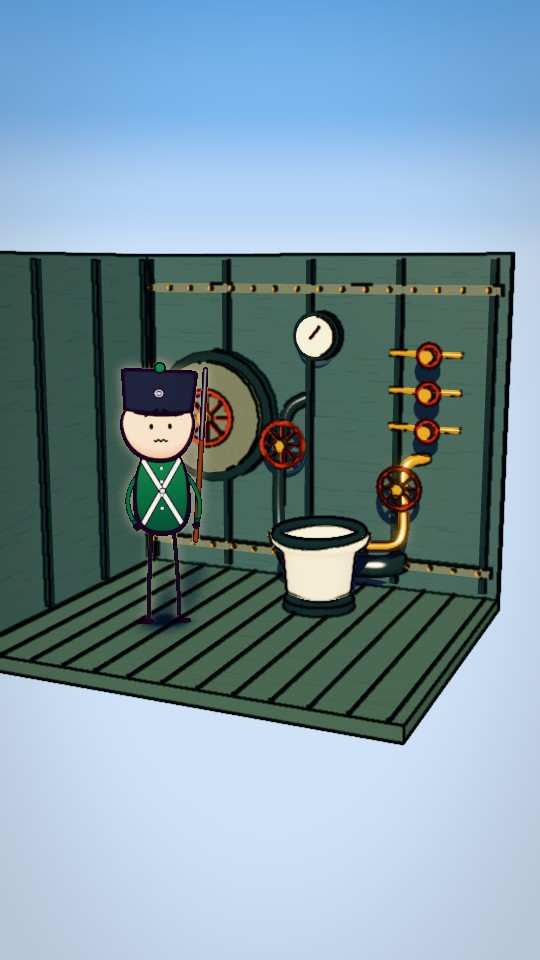
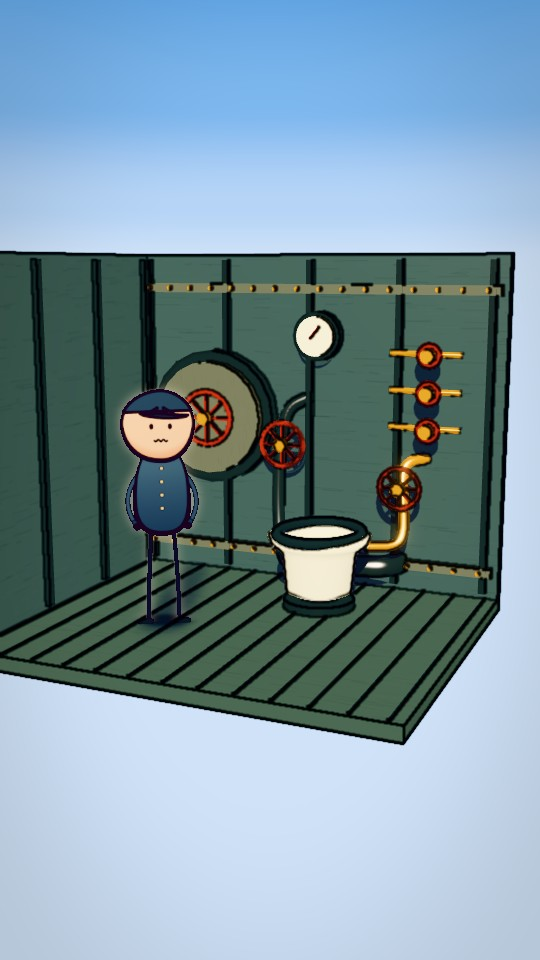
Add submarine support sets and review scenes

Changed region(s): [[0.2074, 0.375, 0.3852, 0.5625]]

diff --git a/src/videos/submarine-toilet/Preview.tsx b/src/videos/submarine-toilet/Preview.tsx
@@ -12,18 +12,20 @@ import {SkyRig} from '../../pipeline/sky';
 import {finish} from './materials';
 import {Ground} from '../../pipeline/ground';
 import {CardStage, person, blob, Stage, CamInfo} from '../../pipeline/cast';
-import {soldier} from '../../pipeline/toon';
+import {CREW,CAPTAIN} from './cast';
+import {initWaterTextures,waterMat,setWaterLook,WATER_DAY} from '../../pipeline/water';
+import {createControlRoom,createBatteryRoom,createFloodEffects,createFish,createBubbles,createOceanCrests} from '../../../videos/submarine-toilet/assets/support.js';
 import {createCompartment,createSubmarine,createToilet,createSection} from '../../../videos/submarine-toilet/assets/submarine.js';
-const shots=[{pos:[48,36,66],look:[0,3,0],fov:48},{pos:[2.1,2.0,4.4],look:[0,.8,-.2],fov:48},{pos:[6.5,5.0,10.0],look:[0,2,-.2],fov:48},{pos:[3.2,2.6,7.0],look:[0,1,-.4],fov:48}] as const;
+const shots=[{pos:[48,36,66],look:[0,3,0],fov:48},{pos:[2.1,2.0,4.4],look:[0,.8,-.2],fov:48},{pos:[6.5,5.0,10.0],look:[0,2,-.2],fov:48},{pos:[3.2,2.6,7.0],look:[0,1,-.4],fov:48},{pos:[80,48,105],look:[0,3,0],fov:48},{pos:[45,18,65],look:[0,3,0],fov:48},{pos:[3.4,2.6,7.0],look:[0,1,-.4],fov:48},{pos:[3.2,2.6,7.0],look:[0,1,-.4],fov:48},{pos:[3.7,3.3,7.5],look:[0,.9,-.3],fov:48}] as const;
 function Inner(){const f=useCurrentFrame();const {camera,scene}=useThree();const cam=camera as THREE.PerspectiveCamera;
- const world=useMemo(()=>{const root=new THREE.Group(),sky=new SkyRig(root,{clouds:0});const ship=finish(createSubmarine()),room=finish(createCompartment()),toilet=finish(createToilet()),section=finish(createSection());root.add(ship,room,toilet,section);const ground=new Ground();const floor=room.getObjectByName('floor');if(floor)ground.add(floor);const cards=new CardStage(root,ground);return {root,sky,ship,room,toilet,section,cards}},[]);
+ const world=useMemo(()=>{const root=new THREE.Group(),sky=new SkyRig(root,{clouds:0});const ship=finish(createSubmarine()),room=finish(createCompartment()),toilet=finish(createToilet()),section=finish(createSection());const control=finish(createControlRoom()),battery=finish(createBatteryRoom()),flood=finish(createFloodEffects()),fish=finish(createFish()),bubbles=finish(createBubbles()),crests=finish(createOceanCrests());fish.position.set(-5,8,5);fish.scale.setScalar(3);bubbles.position.set(5,7,3);bubbles.scale.setScalar(2);initWaterTextures();const sea=new THREE.Mesh(new THREE.PlaneGeometry(1800,1800,48,48).rotateX(-Math.PI/2),waterMat(0));sea.position.y=3.3;sea.receiveShadow=true;const backdrop=new THREE.Mesh(new THREE.SphereGeometry(400,24,12),new THREE.MeshBasicMaterial({color:'#276f82',side:THREE.BackSide,depthWrite:false,fog:false}));backdrop.layers.set(NOINK);root.add(ship,room,toilet,section,control,battery,flood,fish,bubbles,sea,backdrop,crests);const ground=new Ground();const floor=room.getObjectByName('floor');if(floor)ground.add(floor);const cf=control.getObjectByName('floor');if(cf)ground.add(cf);const cards=new CardStage(root,ground);return {root,sky,ship,room,toilet,section,control,battery,flood,fish,bubbles,sea,backdrop,crests,cards}},[]);
  const fx=useMemo(()=>({ink:new InkPass(scene,cam),lens:new LensBlur({maxCoC:24,nearScale:1.2}),bloom:new BloomEffect({blendFunction:BlendFunction.ADD,intensity:.5,luminanceThreshold:1,luminanceSmoothing:.2,mipmapBlur:true,levels:6,radius:.6}),tone:new ToneMappingEffect({mode:ToneMappingMode.NEUTRAL}),grade:new GradeEffect(GRADES.day,GRADE_STRENGTH.day)}),[scene,cam]);
- const i=Math.min(3,Math.floor(f/100)),s=shots[i];cam.position.set(s.pos[0],s.pos[1],s.pos[2]);cam.lookAt(s.look[0],s.look[1],s.look[2]);if(i===0) cam.rotateZ(-0.85);cam.fov=s.fov;cam.updateProjectionMatrix();cam.updateMatrixWorld();cam.layers.enable(NOINK);
+ const i=Math.min(8,Math.floor(f/100)),s=shots[i];cam.position.set(s.pos[0],s.pos[1],s.pos[2]);cam.lookAt(s.look[0],s.look[1],s.look[2]);if(i===0||i===5) cam.rotateZ(-0.85);cam.fov=s.fov;cam.updateProjectionMatrix();cam.updateMatrixWorld();cam.layers.enable(NOINK);
  const focus=new THREE.Vector3(...s.look),sun=i===0?SkyRig.sunFrom(focus.x-cam.position.x,focus.z-cam.position.z,62,44):new THREE.Vector3(1,2,3).normalize();world.sky.update(cam,scene,'day',sun,focus,{fogNear:200,fogFar:1000,shadowR:i===0?60:8});
- world.ship.visible=i===0;world.room.visible=i===3;world.section.visible=i===2;world.toilet.visible=i===1;world.root.updateMatrixWorld(true);
+ world.ship.visible=i===0||i===4||i===5;world.room.visible=i===3||i===7;world.section.visible=i===2;world.toilet.visible=i===1;world.control.visible=i===6;world.battery.visible=i===8;world.flood.visible=i===7;world.sea.visible=i===4;world.crests.visible=i===4;world.backdrop.visible=i===5;world.backdrop.position.copy(cam.position);world.fish.visible=i===5;world.bubbles.visible=i===5;setWaterLook(WATER_DAY,f/30);world.root.updateMatrixWorld(true);
  const right=new THREE.Vector3().setFromMatrixColumn(cam.matrixWorld,0),ci:CamInfo={pos:cam.position,right,sun,light:'day'},st:Stage={places:[],fx:[]};
- if(i===3){st.places.push(person(ci,1,soldier(0),'crew',-.55,0,.3,{mode:'stand',expr:'worried'},1,{name:'crew',glow:'subtle'}));blob(ci,st,-.55,.3)}
+ if(i===3||i===6||i===7){st.places.push(person(ci,1,i===6?CAPTAIN:CREW,'crew',-.55,0,.3,{mode:'stand',expr:'worried'},1,{name:'crew',glow:'subtle'}));blob(ci,st,-.55,.3)}
  world.cards.render(st,cam,right,'day',false);noInkFallback(world.root);fx.lens.focus=cam.position.distanceTo(focus);fx.lens.cInf=0;
  return <><primitive object={world.root} dispose={null}/><EffectComposer multisampling={4}><primitive object={fx.ink} dispose={null}/><primitive object={fx.lens.pre} dispose={null}/><primitive object={fx.lens.main} dispose={null}/><primitive object={fx.bloom} dispose={null}/><primitive object={fx.tone} dispose={null}/><primitive object={fx.grade} dispose={null}/></EffectComposer></>}
 const Preview=()=> <AbsoluteFill><ThreeCanvas width={1080} height={1920} dpr={(getInputProps() as {dpr?:number}).dpr??.5} shadows gl={{antialias:false,stencil:false,toneMappingExposure:1}} camera={{fov:40,near:.15,far:1500}}><Inner/></ThreeCanvas></AbsoluteFill>;
-export const Root=()=> <Composition id="SubmarineAssetReview" component={Preview} durationInFrames={400} fps={30} width={1080} height={1920}/>;
+export const Root=()=> <Composition id="SubmarineAssetReview" component={Preview} durationInFrames={900} fps={30} width={1080} height={1920}/>;

diff --git a/videos/submarine-toilet/assets/support.js b/videos/submarine-toilet/assets/support.js
@@ -1,0 +1,33 @@
+// Original stylised support assets, Y up, metres. All are independent Three.js groups.
+import * as T from 'three';
+const mat=(name,color)=>Object.assign(new T.MeshStandardMaterial({color,roughness:.8}),{name});
+const M={wall:mat('iron','#779089'),edge:mat('iron','#344b4c'),floor:mat('iron','#617972'),cream:mat('enamel','#e5dabc'),brass:mat('gold','#c29755'),red:mat('paint','#b64b39'),black:mat('dark','#28393c'),water:mat('water','#4bb3c0'),fish:mat('paint','#e8a04f')};
+function mesh(g,m,p,x=0,y=0,z=0){const o=new T.Mesh(g,m);o.position.set(x,y,z);p.add(o);return o}
+function box(p,m,x,y,z,w,h,d){return mesh(new T.BoxGeometry(w,h,d),m,p,x,y,z)}
+function cyl(p,m,x,y,z,r,h,axis='y'){const o=mesh(new T.CylinderGeometry(r,r,h,20),m,p,x,y,z);if(axis==='z')o.rotation.x=Math.PI/2;if(axis==='x')o.rotation.z=Math.PI/2;return o}
+function pipe(p,m,pts,r=.04){return mesh(new T.TubeGeometry(new T.CatmullRomCurve3(pts.map(v=>new T.Vector3(...v))),48,r,8,false),m,p)}
+function wheel(p,x,y,z,r=.2){const g=new T.Group();g.name='handwheel';g.position.set(x,y,z);p.add(g);mesh(new T.TorusGeometry(r,.022,8,24),M.red,g);for(let a=0;a<4;a++){const s=box(g,M.red,0,0,0,r*1.8,.024,.025);s.rotation.z=a*Math.PI/4}cyl(g,M.brass,0,0,.035,.05,.08,'z');return g}
+function dial(p,x,y,z,r=.14){cyl(p,M.edge,x,y,z,r+.035,.07,'z');cyl(p,M.cream,x,y,z+.045,r,.025,'z');const n=box(p,M.black,x,y+.035,z+.063,.012,r*.9,.01);n.rotation.z=-.65;for(let a=0;a<7;a++){let t=box(p,M.black,x+Math.cos(a*Math.PI/6)*r*.72,y+Math.sin(a*Math.PI/6)*r*.72,z+.064,.025,.012,.01);t.rotation.z=a*Math.PI/6}}
+function room(w=3.6,d=2.8){const g=new T.Group();const f=box(g,M.floor,0,-.06,0,w,.12,d);f.name='floor';for(let x=-w/2+.1;x<w/2;x+=.28)box(g,M.edge,x,.005,0,.018,.012,d-.1);const b=new T.Group();b.name='removable-back-wall';g.add(b);box(b,M.wall,0,1.4,-d/2,w,2.8,.12);for(let x=-w/2+.1;x<w/2;x+=.7)box(b,M.edge,x,1.4,-d/2+.09,.045,2.7,.05);const side=new T.Group();side.name='removable-side-wall';g.add(side);box(side,M.wall,-w/2,1.4,0,.1,2.8,d);for(let z=-d/2+.2;z<d/2;z+=.65)box(side,M.edge,-w/2+.07,1.4,z,.04,2.7,.05);return {g,b,side}}
+export function createControlRoom(){const {g,b}=room();g.name='control-room';
+ box(b,M.edge,.55,.65,-1.05,1.75,1.15,.55);box(b,M.wall,.55,1.25,-1.04,1.65,.15,.6);
+ for(let i=0;i<5;i++)dial(b,-.12+i*.33,1.48,-1.31,.115);
+ for(let i=0;i<4;i++)wheel(b,-.05+i*.4,.89,-.74,.12);
+ cyl(g,M.edge,-.7,1.35,-.5,.16,2.7);cyl(g,M.brass,-.7,1.75,-.5,.21,.22);wheel(g,-.7,1.5,-.25,.23);
+ for(let i=0;i<3;i++){pipe(b,M.brass,[[1.5,.3+i*.22,-1.28],[1.5,1.8+i*.15,-1.28],[1.1,2+i*.15,-1.28]],.025)}
+ dial(b,-1.1,1.9,-1.31,.23);wheel(b,-1.1,1.2,-1.23,.25);
+ g.userData={units:'m',pivot:'floor centre',sets:['removable-back-wall','removable-side-wall']};return g}
+export function createBatteryRoom(){const {g,b}=room();g.name='battery-room';
+ for(let x of [-1.1,-.4,.3,1])for(let z of [-.75,0,.75]){const battery=box(g,M.black,x,.42,z,.58,.78,.58);battery.name='battery-cell';box(g,M.edge,x,.83,z,.61,.08,.61);for(let dx of [-.14,.14])cyl(g,M.brass,x+dx,.9,z,.045,.08)}
+ pipe(b,M.red,[[-1.4,2.15,-1.28],[0,2.15,-1.28],[1.4,2.15,-1.28]],.045);dial(b,.7,1.7,-1.31,.18);
+ g.userData={units:'m',pivot:'floor centre',effectAnchor:[0,1,0]};return g}
+export function createFloodEffects(){const g=new T.Group();g.name='flood-effects';
+ const water=box(g,M.water,0,.08,0,3,.12,2.5);water.name='water-level';
+ for(let i=0;i<5;i++){let ripple=mesh(new T.TorusGeometry(.17+i*.055,.018,8,36),M.cream,g,.25,.42,-.55);ripple.position.y=.15;ripple.rotation.x=Math.PI/2;ripple.scale.y=.7}
+ const jet=new T.Group();jet.name='water-jet';g.add(jet);pipe(jet,M.water,[[.35,.85,-.6],[.2,1.2,-.35],[-.1,1.0,0],[-.35,.46,.35]],.085);
+ for(let i=0;i<13;i++){let p=mesh(new T.SphereGeometry(.055+(i%3)*.012,10,8),i%3?M.water:M.cream,jet,-.4+(i%4)*.23,.55+(i%5)*.15,-.2+(i%3)*.18);p.scale.set(.7,1.4,.7)}
+ g.userData={units:'m',pivot:'floor centre',controls:'water-level.position.y changes level; water-jet is independently hideable'};return g}
+export function createFish(){const g=new T.Group();g.name='fish';let body=mesh(new T.SphereGeometry(.35,20,12),M.fish,g);body.scale.set(1.5,.75,.35);const tail=mesh(new T.ConeGeometry(.28,.42,3),M.fish,g,-.58,0,0);tail.rotation.z=-Math.PI/2;const eye=mesh(new T.SphereGeometry(.045,10,8),M.black,g,.24,.1,.13);g.userData={units:'m',forward:'+X'};return g}
+export function createBubbles(){const g=new T.Group();g.name='bubbles';for(let i=0;i<18;i++){const x=Math.sin(i*2.2)*.65,y=i*.22,z=Math.cos(i*1.6)*.4;const b=mesh(new T.TorusGeometry(.07+(i%4)*.022,.012,6,20),M.cream,g,x,y,z);b.name='bubble'}return g}
+
+export function createOceanCrests(){const g=new T.Group();g.name='ocean-crests';for(let i=0;i<55;i++){const x=Math.sin(i*31.7)*48,z=Math.cos(i*17.1)*48;const a=mesh(new T.TorusGeometry(1.1+(i%4)*.3,.055,6,24,Math.PI*.7),M.cream,g,x,3.36,z);a.rotation.x=-Math.PI/2;a.rotation.z=i*.7;a.scale.y=.35}return g}

diff --git a/src/videos/submarine-toilet/cast.ts b/src/videos/submarine-toilet/cast.ts
@@ -1,0 +1,4 @@
+import {Outfit} from '../../pipeline/toon';
+// Original recolours of the shared card rig. These are stylised crew, not historical uniforms.
+export const CREW: Outfit={jacket:'#536a74',pants:'#303e4a',boots:'#252b30',hat:'cap',cap:'#40525d',buttons:'#d5c18e',skin:'#f5c9a0'};
+export const CAPTAIN: Outfit={...CREW,jacket:'#354a59',cap:'#263e50',buttons:'#d1ac5b',moustache:'#594234'};

diff --git a/videos/submarine-toilet/ASSET-MANIFEST.md b/videos/submarine-toilet/ASSET-MANIFEST.md
@@ -29,3 +29,18 @@ The visual models are stylized, as the owner permits. References below provide c
 ## Latest preview pass
 
 The exterior camera is rolled and closer, interior lighting is brighter, the front section ring was removed, and the room has a hidden `water-surface` mesh. These are review improvements, not production approval. A generic soldier remains a scale proxy. Updated stills were rendered through the real pipeline and visually inspected. The room remains sparse and the exterior lacks a convincing hull silhouette and fittings; toilet interaction, flowing water, and articulated controls remain untested.
+
+## Additional support assets — 2026-11-17
+
+All are original, stylized assets under the repo license; source is `assets/support.js` unless stated otherwise. Y up, metres. These are **review-needed experiments**, not approved production assets. `finish()` in `src/videos/submarine-toilet/materials.ts` applies the existing toon conversion and procedural finish.
+
+| ID | Factory / usage | Pivot and controls | Actual pipeline still | Limitations |
+|---|---|---|---|---|
+| surface ocean | review scene `src/videos/submarine-toilet/Preview.tsx` uses `waterMat(0)` and `createOceanCrests()` | water plane y=3.3; 1,800 m square; crest group | `previews/ocean.jpg` | flat water, fixed crests; no waves or sinking motion validated; water is assembled in review composition rather than standalone factory |
+| underwater | review scene, `createFish()`, `createBubbles()` | fish +X, ~1.31 m; bubble group base origin, ~3.93 m tall | `previews/underwater.jpg` | static background, fish and bubbles; no depth transition, seafloor or motion |
+| control room | `createControlRoom()` | floor centre; ~3.67 × 2.92 × 2.86 m; named removable walls, handwheels | `previews/control-room.jpg` | static staging; wheel pivots and hand contacts not motion-tested; periscope is a simplified prop |
+| battery room | `createBatteryRoom()` | floor centre; ~3.67 × 2.92 × 2.86 m; cell meshes and effect anchor | `previews/battery-room.jpg` | illustrative layout; gas effect and interaction not implemented |
+| flood | `createFloodEffects()` | floor centre; `water-level` and `water-jet` named separately | `previews/flood.jpg` | solid flat water, fixed spray; no convincing flow, animated surface or contact tests |
+| crew | `src/videos/submarine-toilet/cast.ts` exports `CREW`, `CAPTAIN` outfits for existing `person` card rig | standard card rig, feet solved by Ground | `previews/control-room.jpg`, `previews/staging.jpg` | recolours, not bespoke designs; pose/hand contact, hat fit and animation unverified |
+
+`node scripts/audit-submarine.mjs` passed finite position/normal and bounds checks for the original five support factories. It does not verify correct normals, contact, pivots, animation, visual quality, or performance under motion. The nine stills were rendered through the Remotion ink, lighting, grade and card pipeline and inspected at 540 × 960. The ocean shader appears mostly flat, flood is a hard-edged solid slab, and the simplified submarine and rooms fall short of the Niagara benchmark. No underwater descent or character interaction was animated. No corridor/hatch opening, gas, rescue/aircraft, seabed, or polished transition effect is supplied. Their need depends on the approved shots. The assets are available for review and iteration, not ready for production or an animation handoff.

diff --git a/videos/submarine-toilet/CLAUDE-PROMPT.md b/videos/submarine-toilet/CLAUDE-PROMPT.md
@@ -1,3 +1,7 @@
-# Claude continuation — blocked
+# Claude continuation — owner approval gates
 
-Check out the exact Codex branch and commit named in the handoff. Read AGENTS.md, PRODUCTION-PIPELINE.md, SKILL.md, STORY.md, ASSET-MANIFEST.md and CODEX-HANDOFF.md. This branch contains only an unapproved preliminary asset experiment and diagnostic renders; do not use it as production-ready art or present its stylized plumbing as historical fact. Owner permits stylized rather than historically accurate assets; finish and verify the assets and actual in-engine stills, and stop for owner visual approval. SCRIPT.md and SHOTLIST.md are missing and the script is draft: do not start animation or full production until the owner approves a verified script and shot list. Do not modify Claude's ongoing Niagara work or merge branches without owner approval.
+Check out the exact Codex branch and commit provided by the owner. Read `AGENTS.md`, `PRODUCTION-PIPELINE.md`, `SKILL.md`, `videos/submarine-toilet/STORY.md`, `ASSET-MANIFEST.md`, and `CODEX-HANDOFF.md`. The branch contains stylized in-engine asset experiments, not production-approved assets. Owner permits visual historical liberties. Do not present speculative plumbing or causal sequence as established historical fact.
+
+Assets currently available: submarine, toilet, modular compartment, schematic section, control room, battery room, basic ocean and underwater scenes, simple flood, bubbles and fish, and two recolored card outfits. Reuse them where the owner approves; do not redesign approved assets except to correct integration. See the manifest for code paths, pivots, review images and explicit missing work. At present these are not approved, and flood/ocean effects and staging require substantial refinement and motion/contact checks.
+
+SCRIPT.md and SHOTLIST.md do not exist and the script is draft. Do not invent approval or start animation. Once the owner approves the script, shots and asset visuals, use the established Hold Up pipeline to stage actual in-engine preview stills and stop for owner review. Then proceed to motion proofs and final production only after the applicable approvals in PRODUCTION-PIPELINE.md. Do not modify the ongoing Niagara work, merge branches, or publish without owner approval.

diff --git a/videos/submarine-toilet/CODEX-HANDOFF.md b/videos/submarine-toilet/CODEX-HANDOFF.md
@@ -15,3 +15,7 @@ Accessible references were found and recorded in the manifest. An original gener
 ## Owner direction, latest
 
 The owner explicitly waived historical accuracy for the visual assets. Do not block art work on verifying the exact historical hull or plumbing. Maintain a clear distinction between stylized visual mechanism and factual claims in a future script. The owner has not approved the final assets, script, or shot list. Latest stills have brighter interior lighting, a larger exterior, and an unobstructed schematic section; they remain insufficiently detailed for production. `water-surface` is a hidden static mesh, not a finished effect.
+
+## Expanded set and effects review
+
+The owner requested the supporting ocean, water, fish and interiors. Added `assets/support.js`, `src/videos/submarine-toilet/cast.ts` and the corresponding preview scenes. See manifest for exact functions, previews and limitations. Actual Remotion stills: exterior, toilet, section, character staging, ocean, underwater, control room, flood and battery room. `npx tsc --noEmit` and finite/bounds audit passed. Visual inspection found flat ocean, schematic interiors and an opaque slab of flood water; no animation, sinking proof, collision or hand-contact checks were performed. Gas, functioning opening hatch/corridor and polished transitions are absent. Continue asset work before handing off animation. The script and shot list remain missing/unapproved. Owner's historical-accuracy waiver remains in force for visuals.
